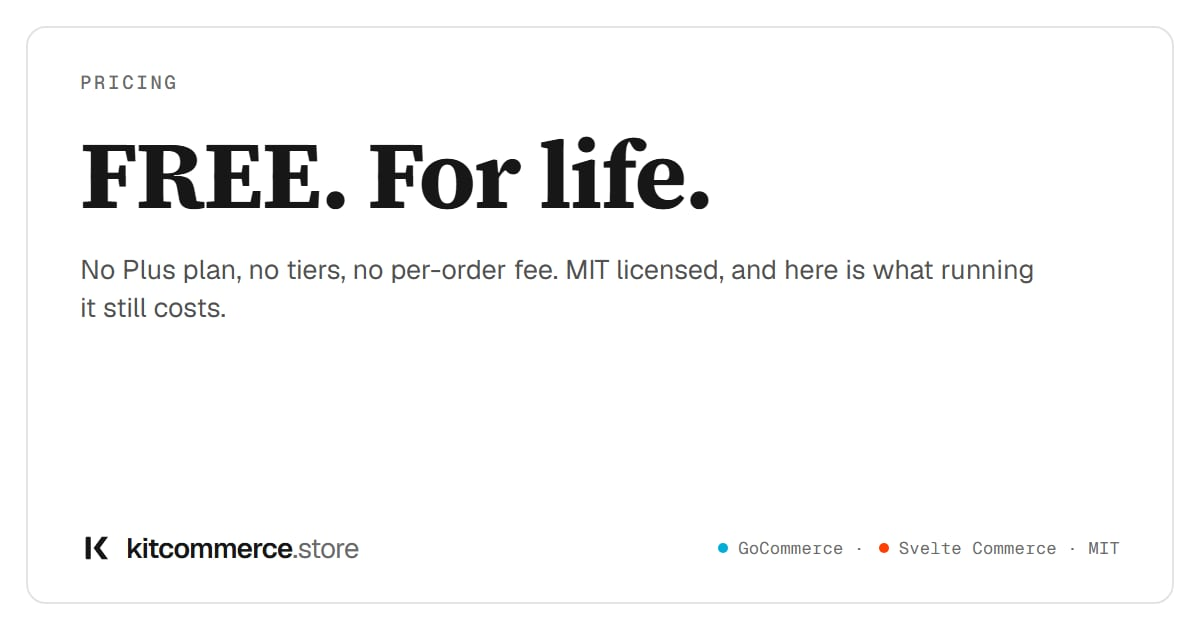
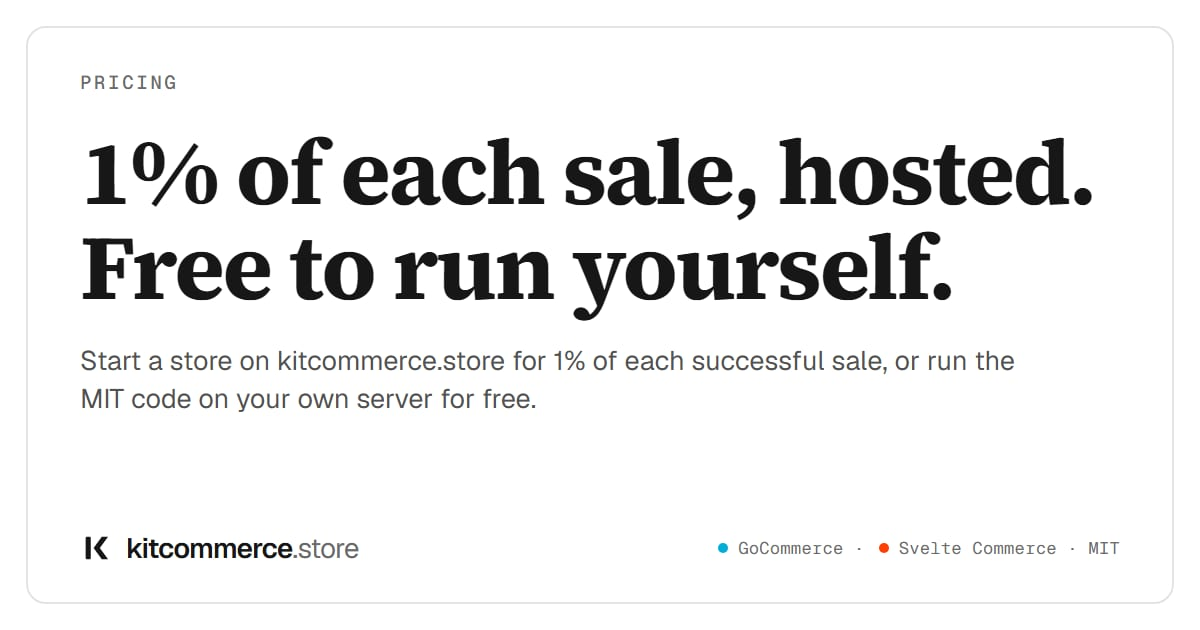
Say hosted stores pay 1% of each sale, and self-hosting stays free
The owner set the price on 26 October 2026: stores hosted on
kitcommerce.store pay 1% of each successful sale, and the MIT code stays
free to run yourself. Hosted sign-up is live, so "free for life", "no
hosted offering" and "nothing to buy" had stopped being true across the
pricing page, the home page, the package pages, llms.txt and the FAQs.

The figure and the sign-up URL now live once, in src/data/pricing.json,
and every page renders them from there. The pricing page shows the two
options side by side, with a Start a store button to the sign-up page,
and its Shopify table moves to Shopify's US price list in dollars, read
today. verify.js now fails on the old phrasings, on any other "N% of each
successful sale", on an unfilled {hostedFee} token, and on an llms.txt
that disagrees with the config. Both decisions are in docs/decisions.md.

Changed region(s): [[0.0617, 0.2111, 0.925, 0.3619], [0.0617, 0.3619, 0.8633, 0.5127], [0.0617, 0.5429, 0.8633, 0.6635]]

diff --git a/scripts/verify.js b/scripts/verify.js
@@ -30,6 +30,7 @@ const ROOT = path.join(path.dirname(fileURLToPath(import.meta.url)), '..')
 // dist/ is what Cloudflare serves, so dist/ is what gets audited. Run
 // `npm run build` first, or this checks the previous build.
 const DIST = path.join(ROOT, 'dist')
+const { hostedFee, signupUrl } = JSON.parse(fs.readFileSync(path.join(ROOT, 'src', 'data', 'pricing.json'), 'utf8'))
 
 function htmlUnder(dir, base = '') {
   const out = []
@@ -64,7 +65,25 @@ const RULES = [
     // enterprise version, and a sentence claiming one describes something that
     // does not exist.
     re: /KitCommerce\s+(edition|tier|cloud|enterprise|pro|plus|premium)\b/gi,
-    why: 'KitCommerce has no edition, tier, cloud or enterprise version. Its packages, GoCommerce and Svelte Commerce, are free and MIT licensed.',
+    why: 'KitCommerce has no edition, tier, cloud or enterprise version. Its packages are MIT licensed and free to run yourself; hosting on kitcommerce.store is priced per sale and has no product name.',
+  },
+  {
+    // Until 26 October 2026 the site said there was nothing to pay at all.
+    // Since then a store hosted on kitcommerce.store pays a share of each
+    // successful sale (src/data/pricing.json), so these phrasings are false.
+    re: /\b(free,? for life|no hosted (offering|version|tier|option)|hosted tier|nothing to (buy|pay)|no customer pays)\b/gi,
+    why: 'Stores hosted on kitcommerce.store pay a share of each successful sale; only self-hosting is free. See src/data/pricing.json.',
+  },
+  {
+    // A data file's {hostedFee} that no page filled in (src/lib/pricing.ts).
+    re: /\{hostedFee\}/g,
+    why: 'Unfilled token: render this data through fill() from src/lib/pricing.ts.',
+  },
+  {
+    // The hosted fee is typed once, in src/data/pricing.json.
+    re: /\b[\d.]+% of each successful sale/gi,
+    why: `The hosted fee is ${hostedFee} of each successful sale, from src/data/pricing.json.`,
+    allow: (line, match) => match.startsWith(hostedFee + ' '),
   },
   {
     // The repository slug is svelte-commerce; the project in prose is two words.
@@ -117,13 +136,27 @@ for (const page of PAGES) {
       rule.re.lastIndex = 0
       let m
       while ((m = rule.re.exec(line))) {
-        if (rule.allow && rule.allow(line)) continue
+        if (rule.allow && rule.allow(line, m[0])) continue
         console.error(`  ${page}:${i + 1}  "${m[0].trim()}"`)
         console.error(`      ${rule.why}`)
         violations++
       }
     }
   }
+}
+
+// llms.txt is out of the rules' scope (see above), so its statement of the
+// price is held to pricing.json here instead.
+const llms = fs.readFileSync(path.join(ROOT, 'public', 'llms.txt'), 'utf8')
+for (const m of llms.matchAll(/\b[\d.]+% of each successful sale/g)) {
+  if (!m[0].startsWith(hostedFee + ' ')) {
+    console.error(`  llms.txt  "${m[0]}" disagrees with src/data/pricing.json (${hostedFee})`)
+    violations++
+  }
+}
+if (!llms.includes(signupUrl)) {
+  console.error(`  llms.txt  does not name the sign-up page, ${signupUrl}`)
+  violations++
 }
 
 if (violations) {

diff --git a/src/styles/global.css b/src/styles/global.css
@@ -1854,12 +1854,12 @@ html:has(dialog.lightbox[open]) { overflow: hidden; }
 
 /* ═══════════════════════════════════════════════════════ pricing (/pricing/) */
 
-/* One word, as large as the column allows: the whole page is its footnote. */
+/* Two ways to run a store, each led by its price in the largest type the card allows. */
 .price-hero { padding-block: clamp(32px, 5vw, 64px) clamp(28px, 4vw, 44px); }
-.price-free { font-size: clamp(5.5rem, 22vw, 15rem); line-height: .82; letter-spacing: -.06em; margin-top: 10px; }
-.price-life { margin-top: 14px; font-size: clamp(1.5rem, 4vw, 2.25rem); font-weight: 600; letter-spacing: -.02em; }
 .price-hero .lede { margin-top: 18px; max-width: 44rem; }
-.price-hero .actions { margin-top: 26px; }
+.price-hero .duo-grid { margin-top: 30px; }
+.duo-card > .price-big { margin-top: 10px; font-size: clamp(3.75rem, 12vw, 6.5rem); line-height: .9; letter-spacing: -.05em; }
+.duo-card > .price-per { margin-top: 8px; font-size: clamp(1.125rem, 2.6vw, 1.375rem); font-weight: 600; letter-spacing: -.015em; color: var(--ink-2); }
 
 /* ═══════════════════════════════════════════════════════════ blog (/blog/) */
 

diff --git a/src/styles/skin.css b/src/styles/skin.css
@@ -342,8 +342,7 @@ h2 + .capwall, h2 + .moddir, h2 + .screens { margin-top: 44px; }
 .theme-grid a:hover .theme-n { text-decoration: underline; text-underline-offset: 3px; }
 
 /* ── pricing ─────────────────────────────────────────────────────── */
-.price-free { font-family: var(--serif); font-weight: 700; color: var(--ink); }
-.price-life { color: var(--ink-2); }
+.duo-card > .price-big { font-family: var(--serif); font-weight: 700; color: var(--ink); }
 
 /* ── blog ────────────────────────────────────────────────────────── */
 

diff --git a/src/lib/pricing.ts b/src/lib/pricing.ts
@@ -1,0 +1,6 @@
+import pricing from '../data/pricing.json'
+
+export const { hostedFee, signupUrl } = pricing
+
+/** Fills {hostedFee} in a data file's strings, so the figure is typed once, in pricing.json. */
+export const fill = <T>(data: T): T => JSON.parse(JSON.stringify(data).replaceAll('{hostedFee}', hostedFee))

diff --git a/docs/decisions.md b/docs/decisions.md
@@ -1,0 +1,41 @@
+# Decisions
+
+Owner decisions for kitcommerce.store, newest first. Each one says what was
+decided, the owner's words where they were given, and why. Changing a settled
+decision needs the owner.
+
+## 26 October 2026: hosted stores pay 1% of each successful sale
+
+The owner: "change this to 1% on each successful sale". Asked how to word it,
+the owner chose: stores hosted on kitcommerce.store pay 1% of each successful
+sale, and self-hosting the MIT code stays free, 0% of sales. The site says
+both.
+
+- Why: hosted sign-up is live at
+  https://admin.kitcommerce.store/admin/auth/signup (its auth-state endpoint
+  reports `"signup": true`), so "free for life", "no hosted offering" and
+  "nothing to buy" stopped being true.
+- The figure and the sign-up URL live once, in `src/data/pricing.json`. Pages
+  read them through `src/lib/pricing.ts`; comparison data files write
+  `{hostedFee}`. `scripts/verify.js` fails the build on the old phrasings and
+  on any other "N% of each successful sale", and checks `llms.txt` against the
+  config.
+- The site says only that: 1% of each successful sale, hosted on
+  kitcommerce.store. No plans, monthly fees, trials, SLAs, support contracts or
+  refund terms are published, because none were given.
+- The software's JSON-LD offers stay at price 0: they describe the MIT
+  software, which is free.
+
+## 26 October 2026: every price on the site is in US dollars
+
+The owner: "keep all prices throughout the website in $USD".
+
+- Where a rival publishes a US-dollar price list, the site uses it, read on
+  the date shown, with the source linked.
+- Where a rival publishes rupee prices only, the site drops its price rather
+  than convert it. There is no currency conversion anywhere on the site.
+- Percentage fees are not prices and stay. Currencies the software supports
+  (INR settlement in the Delhivery module, minor units on invoices) are facts
+  about the software, not prices, and stay.
+- This overrides the owner's general standard of rupee prices formatted with
+  `Intl.NumberFormat('en-IN')` for this site.

diff --git a/README.md b/README.md
@@ -39,8 +39,13 @@ Commerce, the way Medusa is one platform made of packages (the owner's
 decision, so directories can list it under one name).
 What stays true, and what the verifier still holds the prose to:
 
-- There is **no KitCommerce edition, tier, cloud or enterprise version**, and
-  nothing to buy. Both packages are MIT, free.
+- There is **no KitCommerce edition, tier, cloud or enterprise version**. Both
+  packages are MIT and free to run yourself, at 0% of sales. **Stores hosted on
+  kitcommerce.store pay 1% of each successful sale** (since 26 October 2026);
+  that figure and the sign-up URL live once, in `src/data/pricing.json`, and
+  pages render them from there. Every price on the site is in US dollars, with
+  no conversion: a rival that publishes only rupee prices is compared without
+  them. See `docs/decisions.md`.
 - **Name the package that does the work** when a claim is about one of them:
   "GoCommerce's checkout", "Svelte Commerce's 26 backends".
 - **Don't overstate how joined they are.** The connector between them is early

diff --git a/src/content/blog/agentic-commerce-open-stack.md b/src/content/blog/agentic-commerce-open-stack.md
@@ -86,7 +86,7 @@ Every new door — a search engine, a marketplace, an assistant — brings custo
 
 Both packages are MIT licensed. You own the engine the agents talk to: its code, its database, its audit trail and its rules. If a protocol changes, you — or anyone you hire — can change the module that speaks it, without waiting on a vendor’s roadmap. And an agent unsure how a refund works can read the source instead of guessing.
 
-The cost is that you run it. There is no hosted offering, and no store we know of runs GoCommerce in production yet. That is the trade: more to operate, and nothing between you and the next door but your own code.
+The cost, unless the store is hosted on kitcommerce.store, is that you run it. No store we know of runs GoCommerce in production yet. That is the trade: more to operate, and nothing between you and the next door but your own code.
 
 ## Further reading
 
